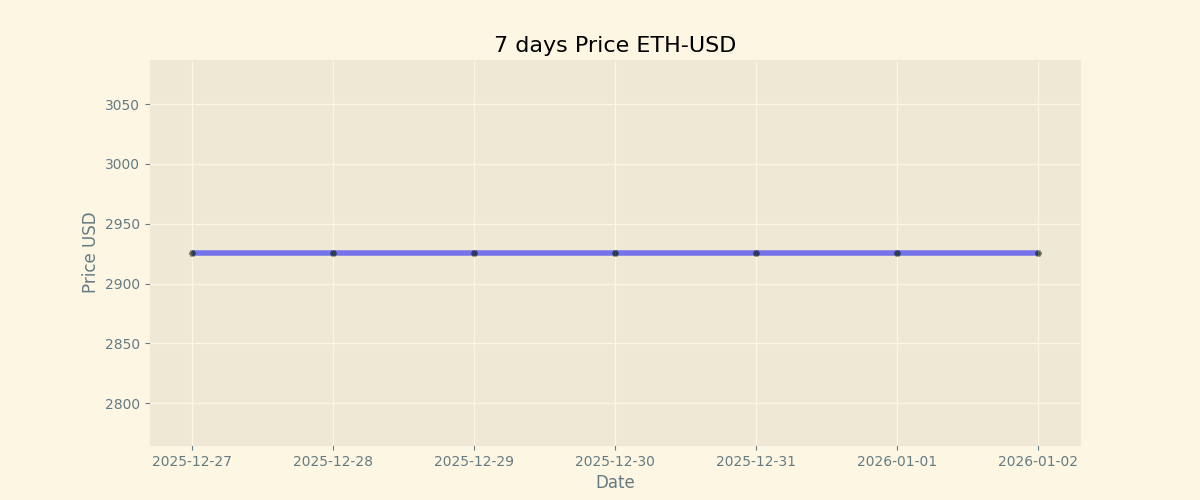
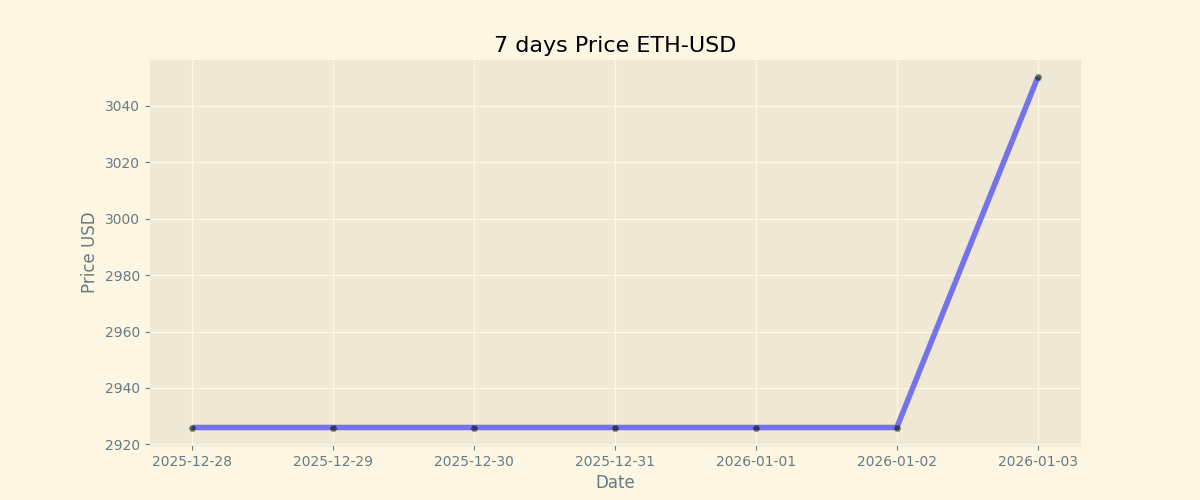
Duty Updates 2026-01-03

diff --git a/README.md b/README.md
@@ -9,8 +9,8 @@
 
 | Currency | Price           |
 | -------- | --------------- |
-| **BTC**  | **$ 86800.0** |
-| **ETH**  | **$ 2926.0** |
+| **BTC**  | **$ 89995.0** |
+| **ETH**  | **$ 3050.0** |
 
 ## BTC chart
 
